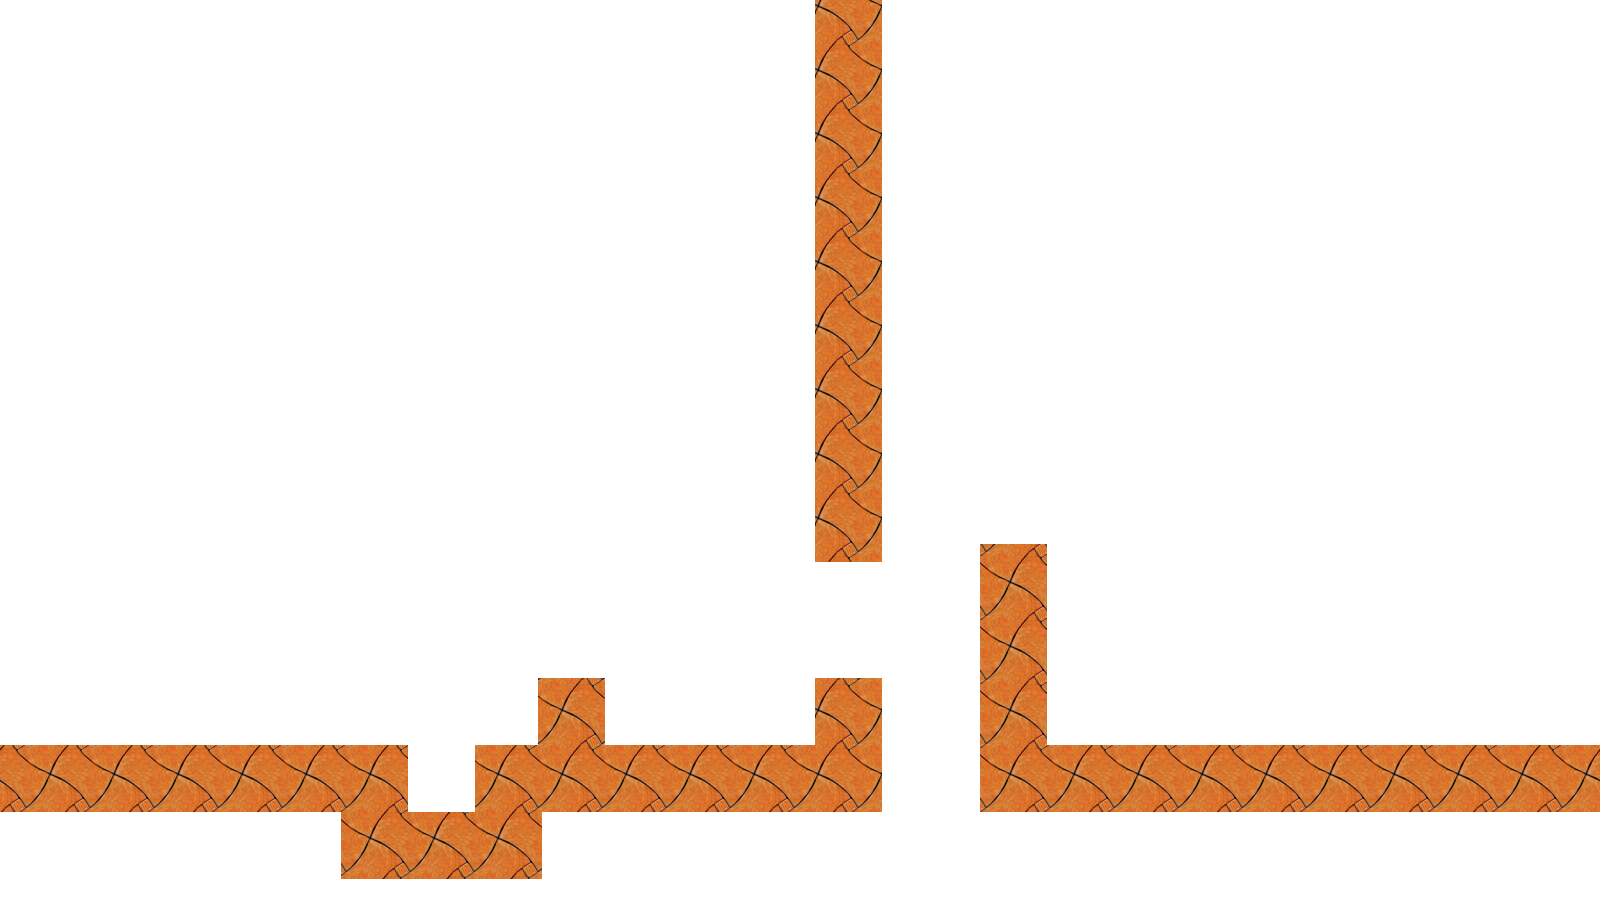
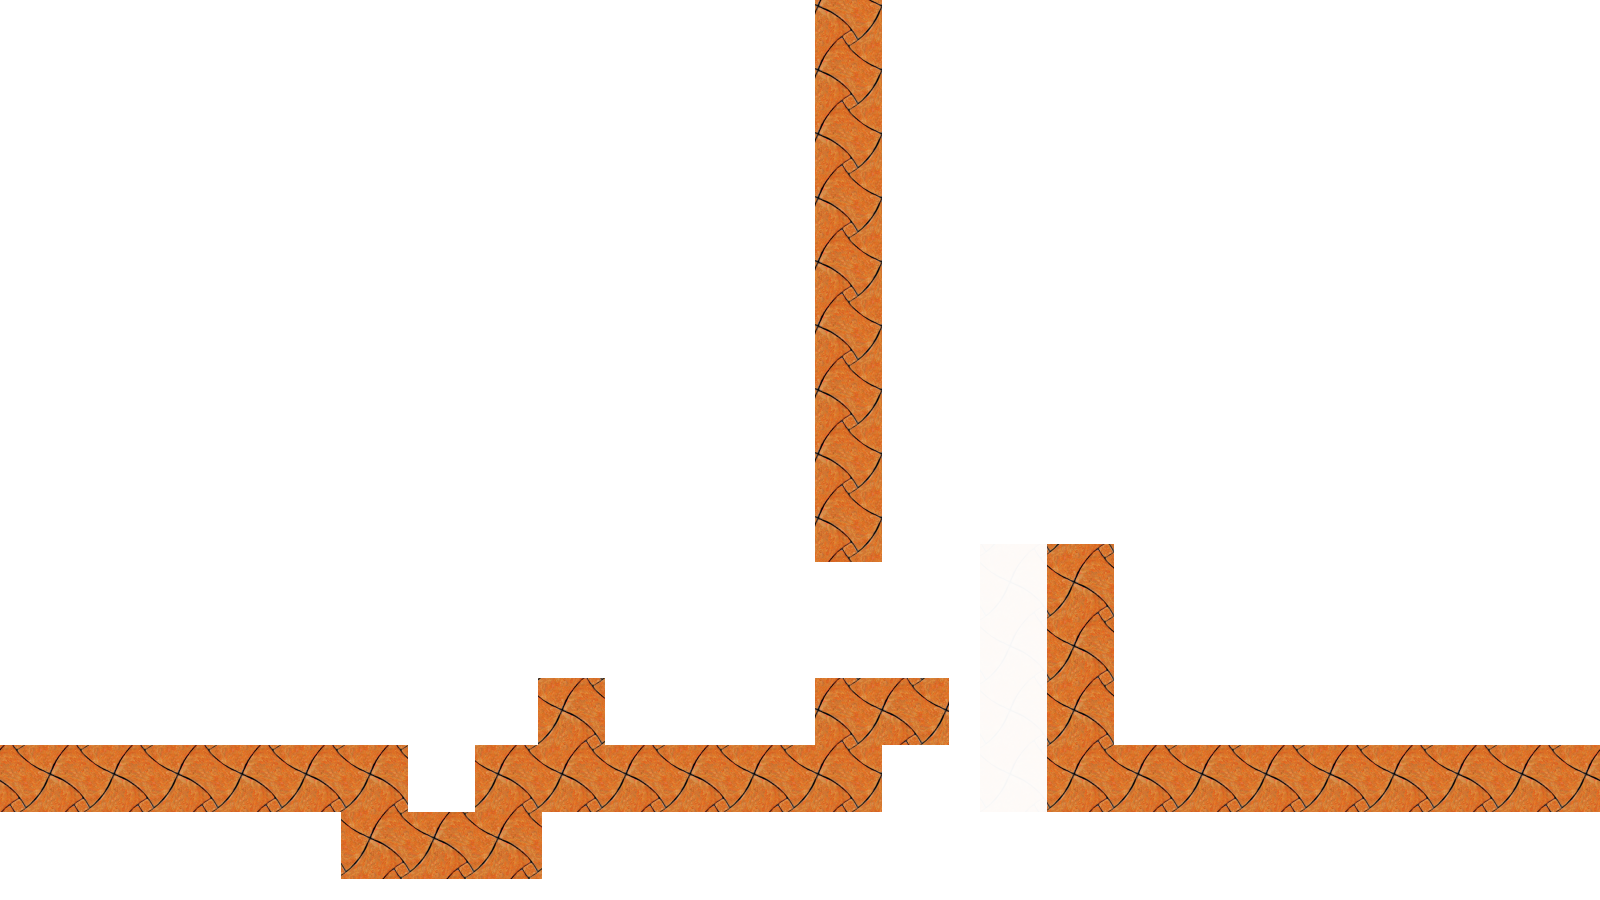
Make level 5 a little easier

Changed region(s): [[0.5312, 0.5911, 0.7188, 0.9022]]

diff --git a/js/scenes/level4.js b/js/scenes/level4.js
@@ -73,8 +73,9 @@ registerClass('level4_walls', (...args) => {
     {position: vec2(538, 678), size: vec2(67, 67)},
     {position: vec2(815, 678), size: vec2(67, 67)},
     {position: vec2(815, 0), size: vec2(67, 562)},
-    {position: vec2(980, 544), size: vec2(67, 268)},
-    {position: vec2(980, 745), size: vec2(620, 67)},
+    {position: vec2(1047, 544), size: vec2(67, 268)},
+    {position: vec2(1047, 745), size: vec2(620, 67)},
+    {position: vec2(882, 678), size: vec2(67, 67)},
   )
   return createImage(...args)
 })
